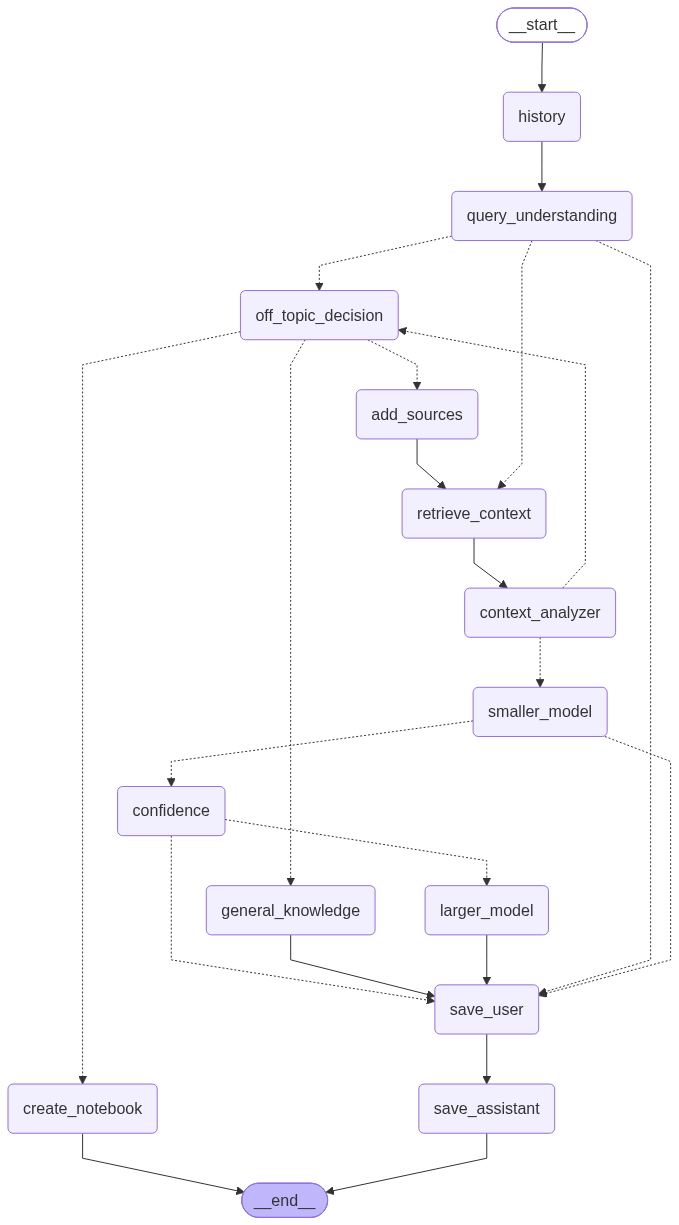
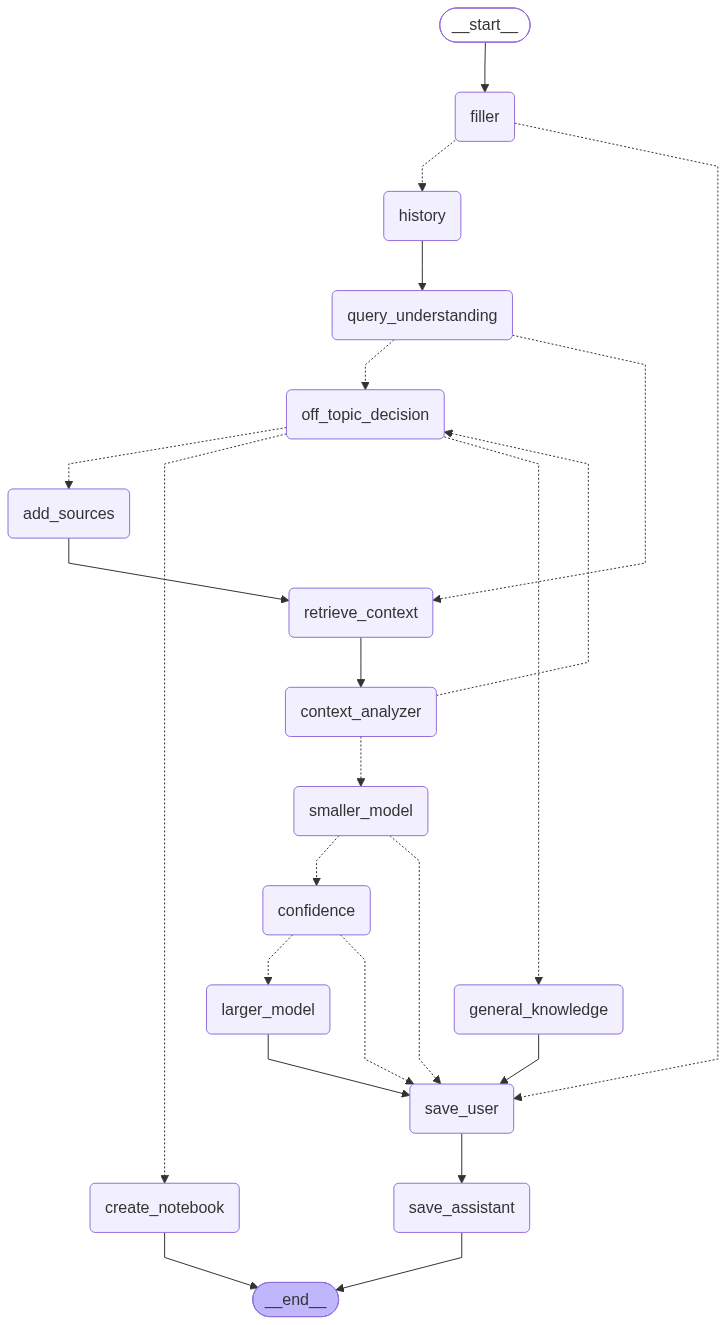
feat: add intent router agent and corresponding prompt for intent classification

diff --git a/agents/intent_router_agent.py b/agents/intent_router_agent.py
@@ -1,0 +1,14 @@
+from langchain.agents import create_agent
+
+from models.model import groq_model
+from prompts import load_prompt
+
+_intent_router_agent = create_agent(
+    groq_model,
+    [],
+    system_prompt=load_prompt("intent_router_agent_prompt"),
+    name="intent_router_agent"
+)
+
+def get_intent_router_agent():
+    return _intent_router_agent
